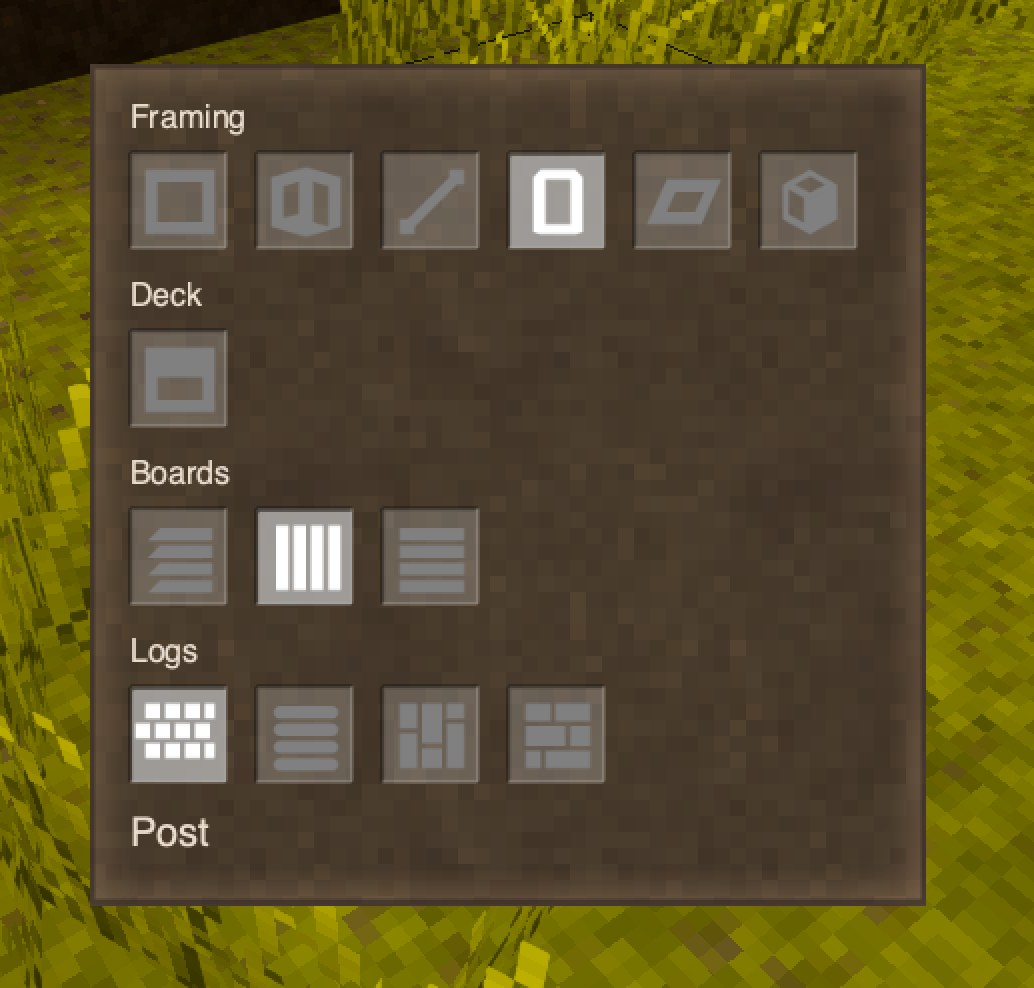
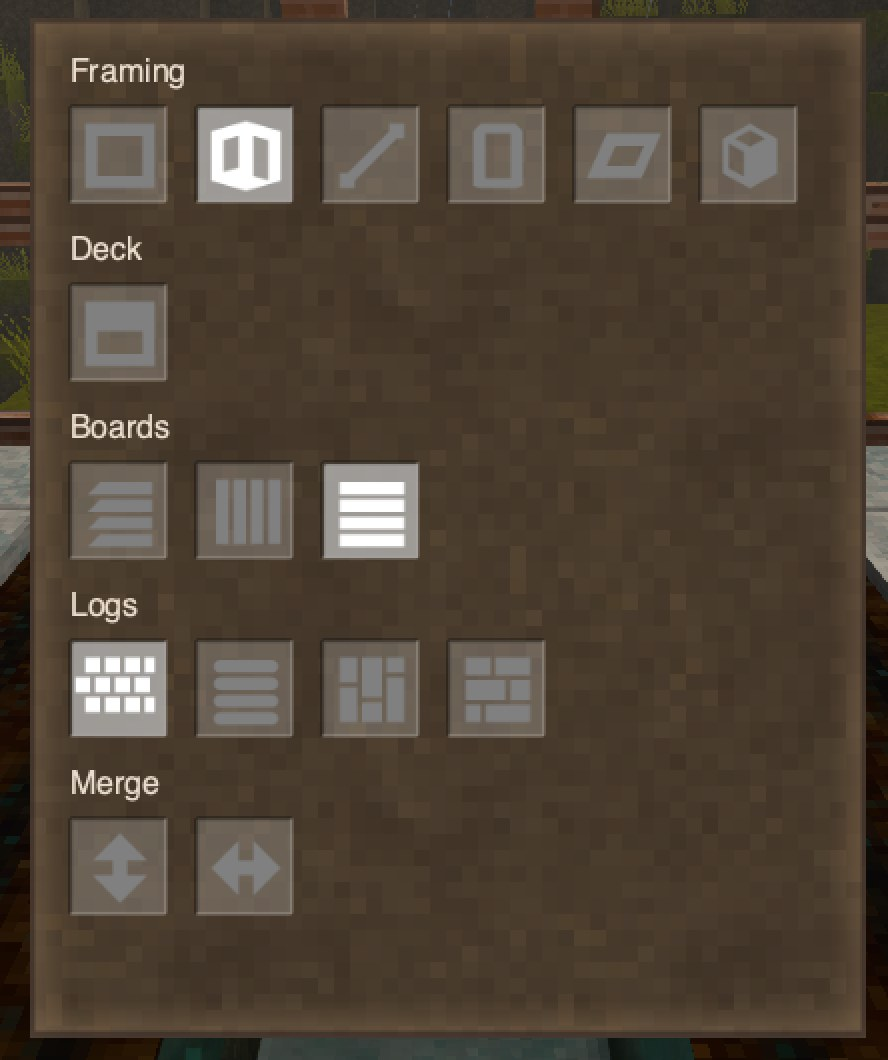
Release 1.6.0 (#184)

diff --git a/docs/moddb.html b/docs/moddb.html
@@ -7,7 +7,7 @@
         <div style="font-family: Impact, Haettenschweiler, 'Arial Narrow Bold', sans-serif; font-size: 44px; line-height: 1; letter-spacing: 2px; text-transform: uppercase;">VS Siding</div>
         <div style="font-family: Impact, Haettenschweiler, 'Arial Narrow Bold', sans-serif; font-size: 18px; letter-spacing: 3px; text-transform: uppercase; color: #5a3b17; margin-top: 6px;">Thin walls and floors, built in layers</div>
       </div>
-      <div style="background: #1d1b17; color: #f3c300; font-weight: bold; font-size: 13px; letter-spacing: 1px; padding: 8px 12px; line-height: 1.5; text-align: center;">SITE NOTICE<br><span style="color: #e9e4d8; font-weight: normal;">v1.5.0: mind the gap</span><div style="margin-top: 6px; border-top: 1px solid #f3c300; padding-top: 6px; font-size: 11px; color: #e9e4d8; font-weight: normal;">DAYS SINCE LAST RELEASE: <span style="color: #f3c300; font-weight: bold; font-size: 16px;">0</span></div></div>
+      <div style="background: #1d1b17; color: #f3c300; font-weight: bold; font-size: 13px; letter-spacing: 1px; padding: 8px 12px; line-height: 1.5; text-align: center;">SITE NOTICE<br><span style="color: #e9e4d8; font-weight: normal;">v1.6.0: interior fit-out</span><div style="margin-top: 6px; border-top: 1px solid #f3c300; padding-top: 6px; font-size: 11px; color: #e9e4d8; font-weight: normal;">DAYS SINCE LAST RELEASE: <span style="color: #f3c300; font-weight: bold; font-size: 16px;">0</span></div></div>
     </div>
   </div>
 
@@ -17,7 +17,7 @@
   </div>
 
   <div style="padding: 20px 20px 0;">
-    <div style="position: relative; background: #ffffff; padding: 10px 10px 34px; box-shadow: 0 4px 12px rgba(0,0,0,.25); transform: rotate(-0.8deg);">
+    <div style="position: relative; max-width: 360px; margin: 0 auto; background: #ffffff; padding: 10px 10px 34px; box-shadow: 0 4px 12px rgba(0,0,0,.25); transform: rotate(-0.8deg);">
       <div style="position: absolute; top: -10px; left: 42%; width: 90px; height: 22px; background: rgba(243,195,0,.75); transform: rotate(3deg);"></div>
       <img src="https://raw.githubusercontent.com/Graphight/VS-Siding/main/docs/screenshots/WholeHouse.jpg" alt="A finished siding house with brick, shakes, a glass wall and an open roof frame" style="display: block; width: 100%; height: auto;">
       <div style="position: absolute; bottom: 9px; left: 12px; font-size: 13px; color: #5a3b17;">The show home. Council sign-off pending.</div>
@@ -33,7 +33,53 @@
   <div style="padding: 0 20px 22px; display: flex; flex-direction: column; gap: 10px;">
 
     <details open style="border: 3px solid #1d1b17; background: #f6f1e4;">
-      <summary style="cursor: pointer; background: #f3c300; padding: 11px 14px; font-family: Impact, Haettenschweiler, 'Arial Narrow Bold', sans-serif; font-size: 20px; letter-spacing: 2px; text-transform: uppercase;">What is new in 1.5.0 <span style="font-family: Verdana, Geneva, sans-serif; font-size: 11px; letter-spacing: 1px; background: #1d1b17; color: #f3c300; padding: 2px 6px; vertical-align: middle;">NEW</span></summary>
+      <summary style="cursor: pointer; background: #f3c300; padding: 11px 14px; font-family: Impact, Haettenschweiler, 'Arial Narrow Bold', sans-serif; font-size: 20px; letter-spacing: 2px; text-transform: uppercase;">What is new in 1.6.0 <span style="font-family: Verdana, Geneva, sans-serif; font-size: 11px; letter-spacing: 1px; background: #1d1b17; color: #f3c300; padding: 2px 6px; vertical-align: middle;">NEW</span></summary>
+      <div style="padding: 14px; font-size: 14px; line-height: 1.6;">
+        <p style="margin: 0;">The walls are up, so this release is about the inside of the room. Thank you to everyone who asked for these.</p>
+        <div style="position: relative; margin: 16px 6px 0; background: #ffffff; padding: 10px 10px 34px; box-shadow: 0 4px 12px rgba(0,0,0,.25); transform: rotate(-0.8deg);">
+          <div style="position: absolute; top: -10px; left: 42%; width: 90px; height: 22px; background: rgba(243,195,0,.75); transform: rotate(3deg);"></div>
+          <img src="https://raw.githubusercontent.com/Graphight/VS-Siding/main/docs/screenshots/FitOut.jpg" alt="A small room with a mosaic of clay tiles on the back wall, wallpaper on the side walls and a stone floor" style="display: block; width: 100%; height: auto;">
+          <div style="position: absolute; bottom: 9px; left: 12px; font-size: 13px; color: #5a3b17;">The tiler turned up three weeks late.</div>
+        </div>
+        <p style="margin: 14px 0 0;"><b>Tiles.</b> Right-click a face with a fired clay tile or a travertine tile to lay one in the quarter of the face you point at. Each face holds four, so mix colours for a mosaic, and the grout lines meet across blocks. Sneak to fill the face. Walls, corners, posts, floors and decks take them, and breaking takes one off at a time.</p>
+        <p style="margin: 14px 0 0;"><b>Wallpaper.</b> Wallpaper is now a finish, so it goes on the face you click and nowhere else. Paper the room side and leave brick or boards on the outside. Floors, ceilings and decks take it too, and breaking it gives the wallpaper back.</p>
+        <p style="margin: 14px 0 0;"><b>Glass that stays in panes.</b> The saw menu has a new <b>Merge</b> row with two switches, up and down and side to side. Turn one off and glass laid afterwards gets bars that way instead of joining its neighbours into one big sheet. Good for a greenhouse.</p>
+        <div style="margin-top: 12px; background: #ffffff; padding: 8px 8px 28px; box-shadow: 0 3px 10px rgba(0,0,0,.2); position: relative;">
+          <img src="https://raw.githubusercontent.com/Graphight/VS-Siding/main/docs/screenshots/GlassMerge.jpg" alt="A greenhouse whose glass walls each use a different merge setting, from single panes to tall columns" style="display: block; width: 100%; height: auto;">
+          <div style="position: absolute; bottom: 7px; left: 10px; font-size: 12px; color: #5a3b17;">Every merge setting in one greenhouse</div>
+        </div>
+        <p style="margin: 14px 0 0;"><b>Hatches.</b> A trapdoor goes into a straight wall's block as a hatch, flush with the top. Put it over a ladder that runs up the wall and you can climb through it, so a cellar tower can be built from walls alone.</p>
+        <p style="margin: 14px 0 0;"><b>Vents.</b> Right-click a frame, a deck or a floor with a wooden trapdoor to make a louvred vent. It still seals the room and holds back water, and with Real Smoke it lets the smoke out of a kitchen.</p>
+        <div style="display: flex; flex-wrap: wrap; gap: 12px; margin-top: 12px;">
+          <div style="flex: 1 1 260px; min-width: 0; background: #ffffff; padding: 8px 8px 28px; box-shadow: 0 3px 10px rgba(0,0,0,.2); position: relative;">
+            <img src="https://raw.githubusercontent.com/Graphight/VS-Siding/main/docs/screenshots/HatchLadder.jpg" alt="A ladder running up a plastered wall to a closed hatch at the top of the wall's block" style="display: block; width: 100%; height: auto;">
+            <div style="position: absolute; bottom: 7px; left: 10px; font-size: 12px; color: #5a3b17;">Up the ladder and through the hatch</div>
+          </div>
+          <div style="flex: 1 1 260px; min-width: 0; background: #ffffff; padding: 8px 8px 28px; box-shadow: 0 3px 10px rgba(0,0,0,.2); position: relative;">
+            <img src="https://raw.githubusercontent.com/Graphight/VS-Siding/main/docs/screenshots/VentSmoke.jpg" alt="A brick kitchen with a louvred vent running up the wall behind the stove and into the ceiling" style="display: block; width: 100%; height: auto;">
+            <div style="position: absolute; bottom: 7px; left: 10px; font-size: 12px; color: #5a3b17;">A vent up the wall and into the ceiling</div>
+          </div>
+        </div>
+        <p style="margin: 14px 0 0;"><b>Grass and dirt.</b> Right-click the top of a floor or a deck with medium fertility soil for grass, or low fertility soil for dirt. The grass takes its colour from the climate and the season, like the grass around it, so a deck at ground level blends into the field. It does not grow.</p>
+        <div style="margin-top: 12px; background: #ffffff; padding: 8px 8px 28px; box-shadow: 0 3px 10px rgba(0,0,0,.2); position: relative;">
+          <img src="https://raw.githubusercontent.com/Graphight/VS-Siding/main/docs/screenshots/DirtAndGrass.jpg" alt="Wall decks finished in dirt and in grass, the grass the same colour as the field around them" style="display: block; width: 100%; height: auto;">
+          <div style="position: absolute; bottom: 7px; left: 10px; font-size: 12px; color: #5a3b17;">Dirt on one deck, grass on the other</div>
+        </div>
+        <p style="margin: 14px 0 0;"><b>Also new</b></p>
+        <ul style="margin: 6px 0 0; padding-left: 20px;">
+          <li>A diagonal takes a second deck on its outer half, from the outer side, so a square storey can sit on a diagonal one with no hole in the floor. Each half has its own layers and costs half a deck.</li>
+          <li>A sealed corner no longer leaves a dark patch on the ground in front of it.</li>
+          <li>Inside a land claim, adding a layer to a wall, a floor or a deck needs build rights there.</li>
+        </ul>
+        <div style="margin-top: 12px; background: #ffffff; padding: 8px 8px 28px; box-shadow: 0 3px 10px rgba(0,0,0,.2); position: relative;">
+          <img src="https://raw.githubusercontent.com/Graphight/VS-Siding/main/docs/screenshots/DiagonalOuterDeck.jpg" alt="A diagonal wall decked on both halves, with boards on one side and cobblestone on the other" style="display: block; width: 100%; height: auto;">
+          <div style="position: absolute; bottom: 7px; left: 10px; font-size: 12px; color: #5a3b17;">A diagonal decked on both halves</div>
+        </div>
+      </div>
+    </details>
+
+    <details style="border: 3px solid #1d1b17; background: #f6f1e4;">
+      <summary style="cursor: pointer; background: #f3c300; padding: 11px 14px; font-family: Impact, Haettenschweiler, 'Arial Narrow Bold', sans-serif; font-size: 20px; letter-spacing: 2px; text-transform: uppercase;">What was new in 1.5.0</summary>
       <div style="padding: 14px; font-size: 14px; line-height: 1.6;">
         <p style="margin: 0;">Our engineers were hard at work designing this marvel of technology:</p>
         <div style="position: relative; margin: 16px 6px 0; background: #ffffff; padding: 10px 10px 34px; box-shadow: 0 4px 12px rgba(0,0,0,.25); transform: rotate(0.8deg);">
@@ -66,7 +112,6 @@
         <p style="margin: 14px 0 0;"><b>Also new</b></p>
         <ul style="margin: 6px 0 0; padding-left: 20px;">
           <li><b>Face</b> mode puts a plank finish on one face of any solid block, such as the top of a log beam.</li>
-          <li>Tiles. Right-click a face with a fired clay tile or a travertine tile to lay one in the quarter of the face you point at. Each face holds four, so mix colours for a mosaic. Sneak to fill the face. Walls, corners, posts, floors and decks take them.</li>
           <li>Two walls built back to back close up, and a floor laid up to a wall decks it.</li>
           <li>A decked wall holds a torch, an oil lamp or a small lantern.</li>
           <li>Furniture from Kevins Furniture, Vintage Engineering, Containers Bundle, More Inventorys and Butchering shares walls, and IndustrialStory glass panes glaze them.</li>
@@ -154,7 +199,7 @@
             </ul>
           </div>
           <div style="flex: 0 1 200px; min-width: 0; border: 3px solid #1d1b17;">
-            <img src="https://raw.githubusercontent.com/Graphight/VS-Siding/main/docs/screenshots/SawModePicker.jpg" alt="The saw menu with Framing, Deck, Boards and Logs rows" style="display: block; width: 100%; height: auto;">
+            <img src="https://raw.githubusercontent.com/Graphight/VS-Siding/main/docs/screenshots/SawModePicker.jpg" alt="The saw menu with Framing, Deck, Boards, Logs and Merge rows" style="display: block; width: 100%; height: auto;">
           </div>
         </div>
       </div>
@@ -184,11 +229,13 @@
           <tr><td style="border-bottom: 1px solid #c9bfa8; padding: 6px 8px; font-weight: bold;">Pelt</td><td style="border-bottom: 1px solid #c9bfa8; padding: 6px 8px;">1 pelt, small to huge</td></tr>
           <tr><td style="border-bottom: 1px solid #c9bfa8; padding: 6px 8px; font-weight: bold;">Cloth</td><td style="border-bottom: 1px solid #c9bfa8; padding: 6px 8px;">1 cloth, any colour</td></tr>
           <tr><td style="border-bottom: 1px solid #c9bfa8; padding: 6px 8px; font-weight: bold;">Rubble</td><td style="border-bottom: 1px solid #c9bfa8; padding: 6px 8px;">4 stones, any rock</td></tr>
-          <tr><td style="padding: 6px 8px; font-weight: bold;">Glass</td><td style="padding: 6px 8px;">1 glass block or slab, any colour, or 1 leaded glass pane, or 1 glass pane or camed glass pane from IndustrialStory</td></tr>
+          <tr><td style="border-bottom: 1px solid #c9bfa8; padding: 6px 8px; font-weight: bold;">Glass</td><td style="border-bottom: 1px solid #c9bfa8; padding: 6px 8px;">1 glass block or slab, any colour, or 1 leaded glass pane, or 1 glass pane or camed glass pane from IndustrialStory</td></tr>
+          <tr><td style="padding: 6px 8px; font-weight: bold;">Vent</td><td style="padding: 6px 8px;">1 wooden trapdoor</td></tr>
           <tr><td colspan="2" style="background: #1d1b17; color: #f3c300; font-weight: bold; letter-spacing: 1px; padding: 5px 8px;">FINISH (walls, floors and decks)</td></tr>
           <tr><td style="border-bottom: 1px solid #c9bfa8; padding: 6px 8px; font-weight: bold;">Daub</td><td style="border-bottom: 1px solid #c9bfa8; padding: 6px 8px;">2 raw daub</td></tr>
           <tr><td style="border-bottom: 1px solid #c9bfa8; padding: 6px 8px; font-weight: bold;">Plaster</td><td style="border-bottom: 1px solid #c9bfa8; padding: 6px 8px;">1 plaster block</td></tr>
-          <tr><td style="border-bottom: 1px solid #c9bfa8; padding: 6px 8px; font-weight: bold;">Wallpaper</td><td style="border-bottom: 1px solid #c9bfa8; padding: 6px 8px;">1 wallpaper</td></tr>
+          <tr><td style="border-bottom: 1px solid #c9bfa8; padding: 6px 8px; font-weight: bold;">Wallpaper</td><td style="border-bottom: 1px solid #c9bfa8; padding: 6px 8px;">1 wallpaper, any pattern</td></tr>
+          <tr><td style="border-bottom: 1px solid #c9bfa8; padding: 6px 8px; font-weight: bold;">Tiles</td><td style="border-bottom: 1px solid #c9bfa8; padding: 6px 8px;">1 fired clay tile or travertine tile for each quarter of a face</td></tr>
           <tr><td style="border-bottom: 1px solid #c9bfa8; padding: 6px 8px; font-weight: bold;">Rammed earth</td><td style="border-bottom: 1px solid #c9bfa8; padding: 6px 8px;">1 rammed earth block, any pattern</td></tr>
           <tr><td style="border-bottom: 1px solid #c9bfa8; padding: 6px 8px; font-weight: bold;">Soil</td><td style="border-bottom: 1px solid #c9bfa8; padding: 6px 8px;">1 medium fertility soil block for grass, 1 low fertility soil block for dirt, on a floor or a deck top only</td></tr>
           <tr><td style="border-bottom: 1px solid #c9bfa8; padding: 6px 8px; font-weight: bold;">Packed earth</td><td style="border-bottom: 1px solid #c9bfa8; padding: 6px 8px;">1 packed dirt block</td></tr>
@@ -259,7 +306,7 @@
   </div>
 
   <div style="padding: 0 20px 20px; display: flex; flex-wrap: wrap; gap: 14px; align-items: center; font-size: 14px; line-height: 1.6;">
-    <div style="flex: 0 1 220px; min-width: 0; border: 3px solid #1d1b17;">
+    <div style="flex: 1 1 420px; min-width: 0; border: 3px solid #1d1b17;">
       <img src="https://raw.githubusercontent.com/Graphight/VS-Siding/main/docs/screenshots/HandbookEntry.jpg" alt="The VS Siding Mod: Guide page in the in-game handbook" style="display: block; width: 100%; height: auto;">
     </div>
     <div style="flex: 1 1 260px; min-width: 0;">

diff --git a/README.md b/README.md
@@ -21,8 +21,8 @@ The in-game handbook has the whole thing: start at *VS Siding Mod: Guide*, which
 ## What a wall is made of
 
 - **Framing**: planks, in any wood the game or another mod adds, sticks, bones, or bamboo stakes. Bone does not burn.
-- **Infill**: wattle, bamboo poles, straw, clay, packed earth, rammed earth, pelt, cloth, rubble stone, glass, leaded glass or a glass pane from IndustrialStory.
-- **Finish**: appearance only, per face, in wood, clay, packed earth, rammed earth, brick, stone, or metal.
+- **Infill**: wattle, bamboo poles, straw, clay, packed earth, rammed earth, pelt, cloth, rubble stone, glass, leaded glass, a glass pane from IndustrialStory, or a wooden trapdoor as a louvred vent.
+- **Finish**: appearance only, per face, in wood, clay, packed earth, rammed earth, brick, stone, metal, wallpaper, tiles laid four to a face, or grass and dirt on a floor or deck top.
 
 Framing plus infill is a complete wall, and seals a room the way solid blocks do.
 The infill decides whether it counts as a cooling (cellar) wall: rubble stone, clay, packed earth and rammed earth do, wattle, bamboo poles, straw, pelt and cloth do not.
@@ -68,6 +68,24 @@ Bamboo frames and pole infill on bamboo stilts:
 A stairwell with capped wall tops and steps that line up:
 
 ![stair-hosting](docs/screenshots/StairHosting.jpg)
+
+A room with tiles and wallpaper:
+
+![fit-out](docs/screenshots/FitOut.jpg)
+
+Glass at every merge setting, a hatch over a ladder, and a kitchen vent:
+
+![glass-merge](docs/screenshots/GlassMerge.jpg)
+![hatch-ladder](docs/screenshots/HatchLadder.jpg)
+![vent-smoke](docs/screenshots/VentSmoke.jpg)
+
+A diagonal decked on both halves:
+
+![diagonal-outer-deck](docs/screenshots/DiagonalOuterDeck.jpg)
+
+Grass and dirt on a deck, the grass matching the field:
+
+![dirt-and-grass](docs/screenshots/DirtAndGrass.jpg)
 
 Floors, from above and below:
 
